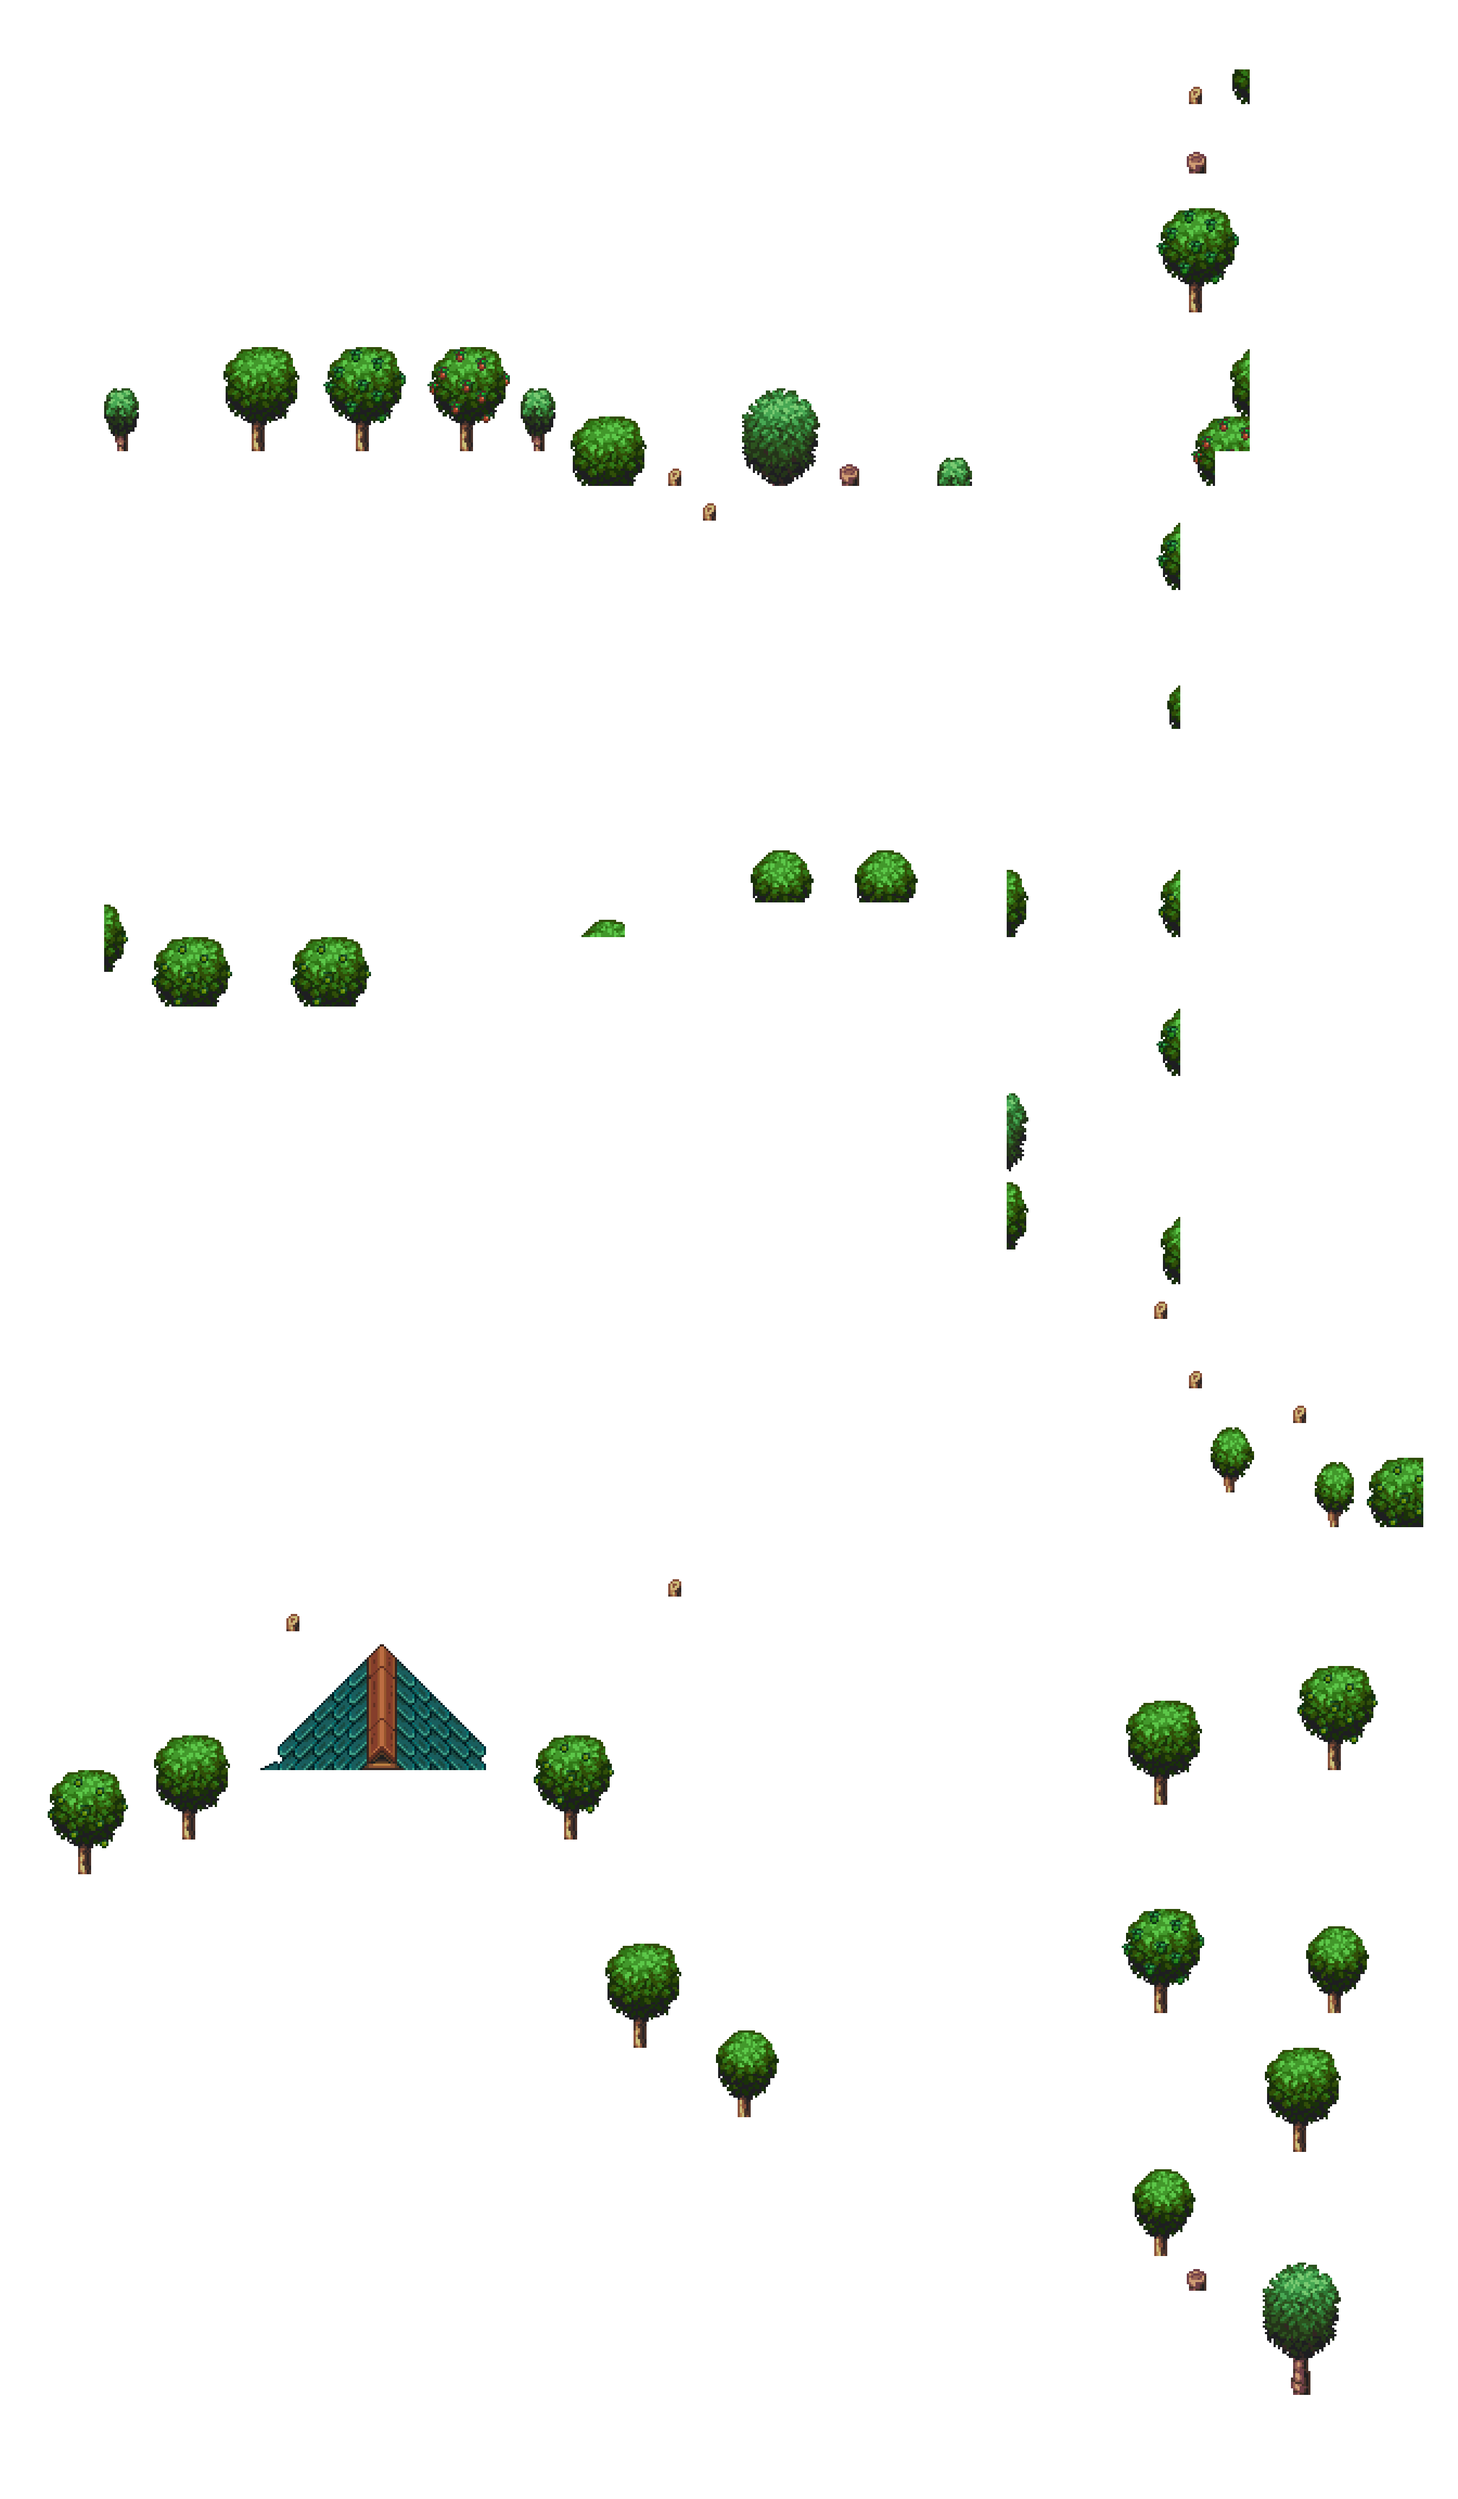
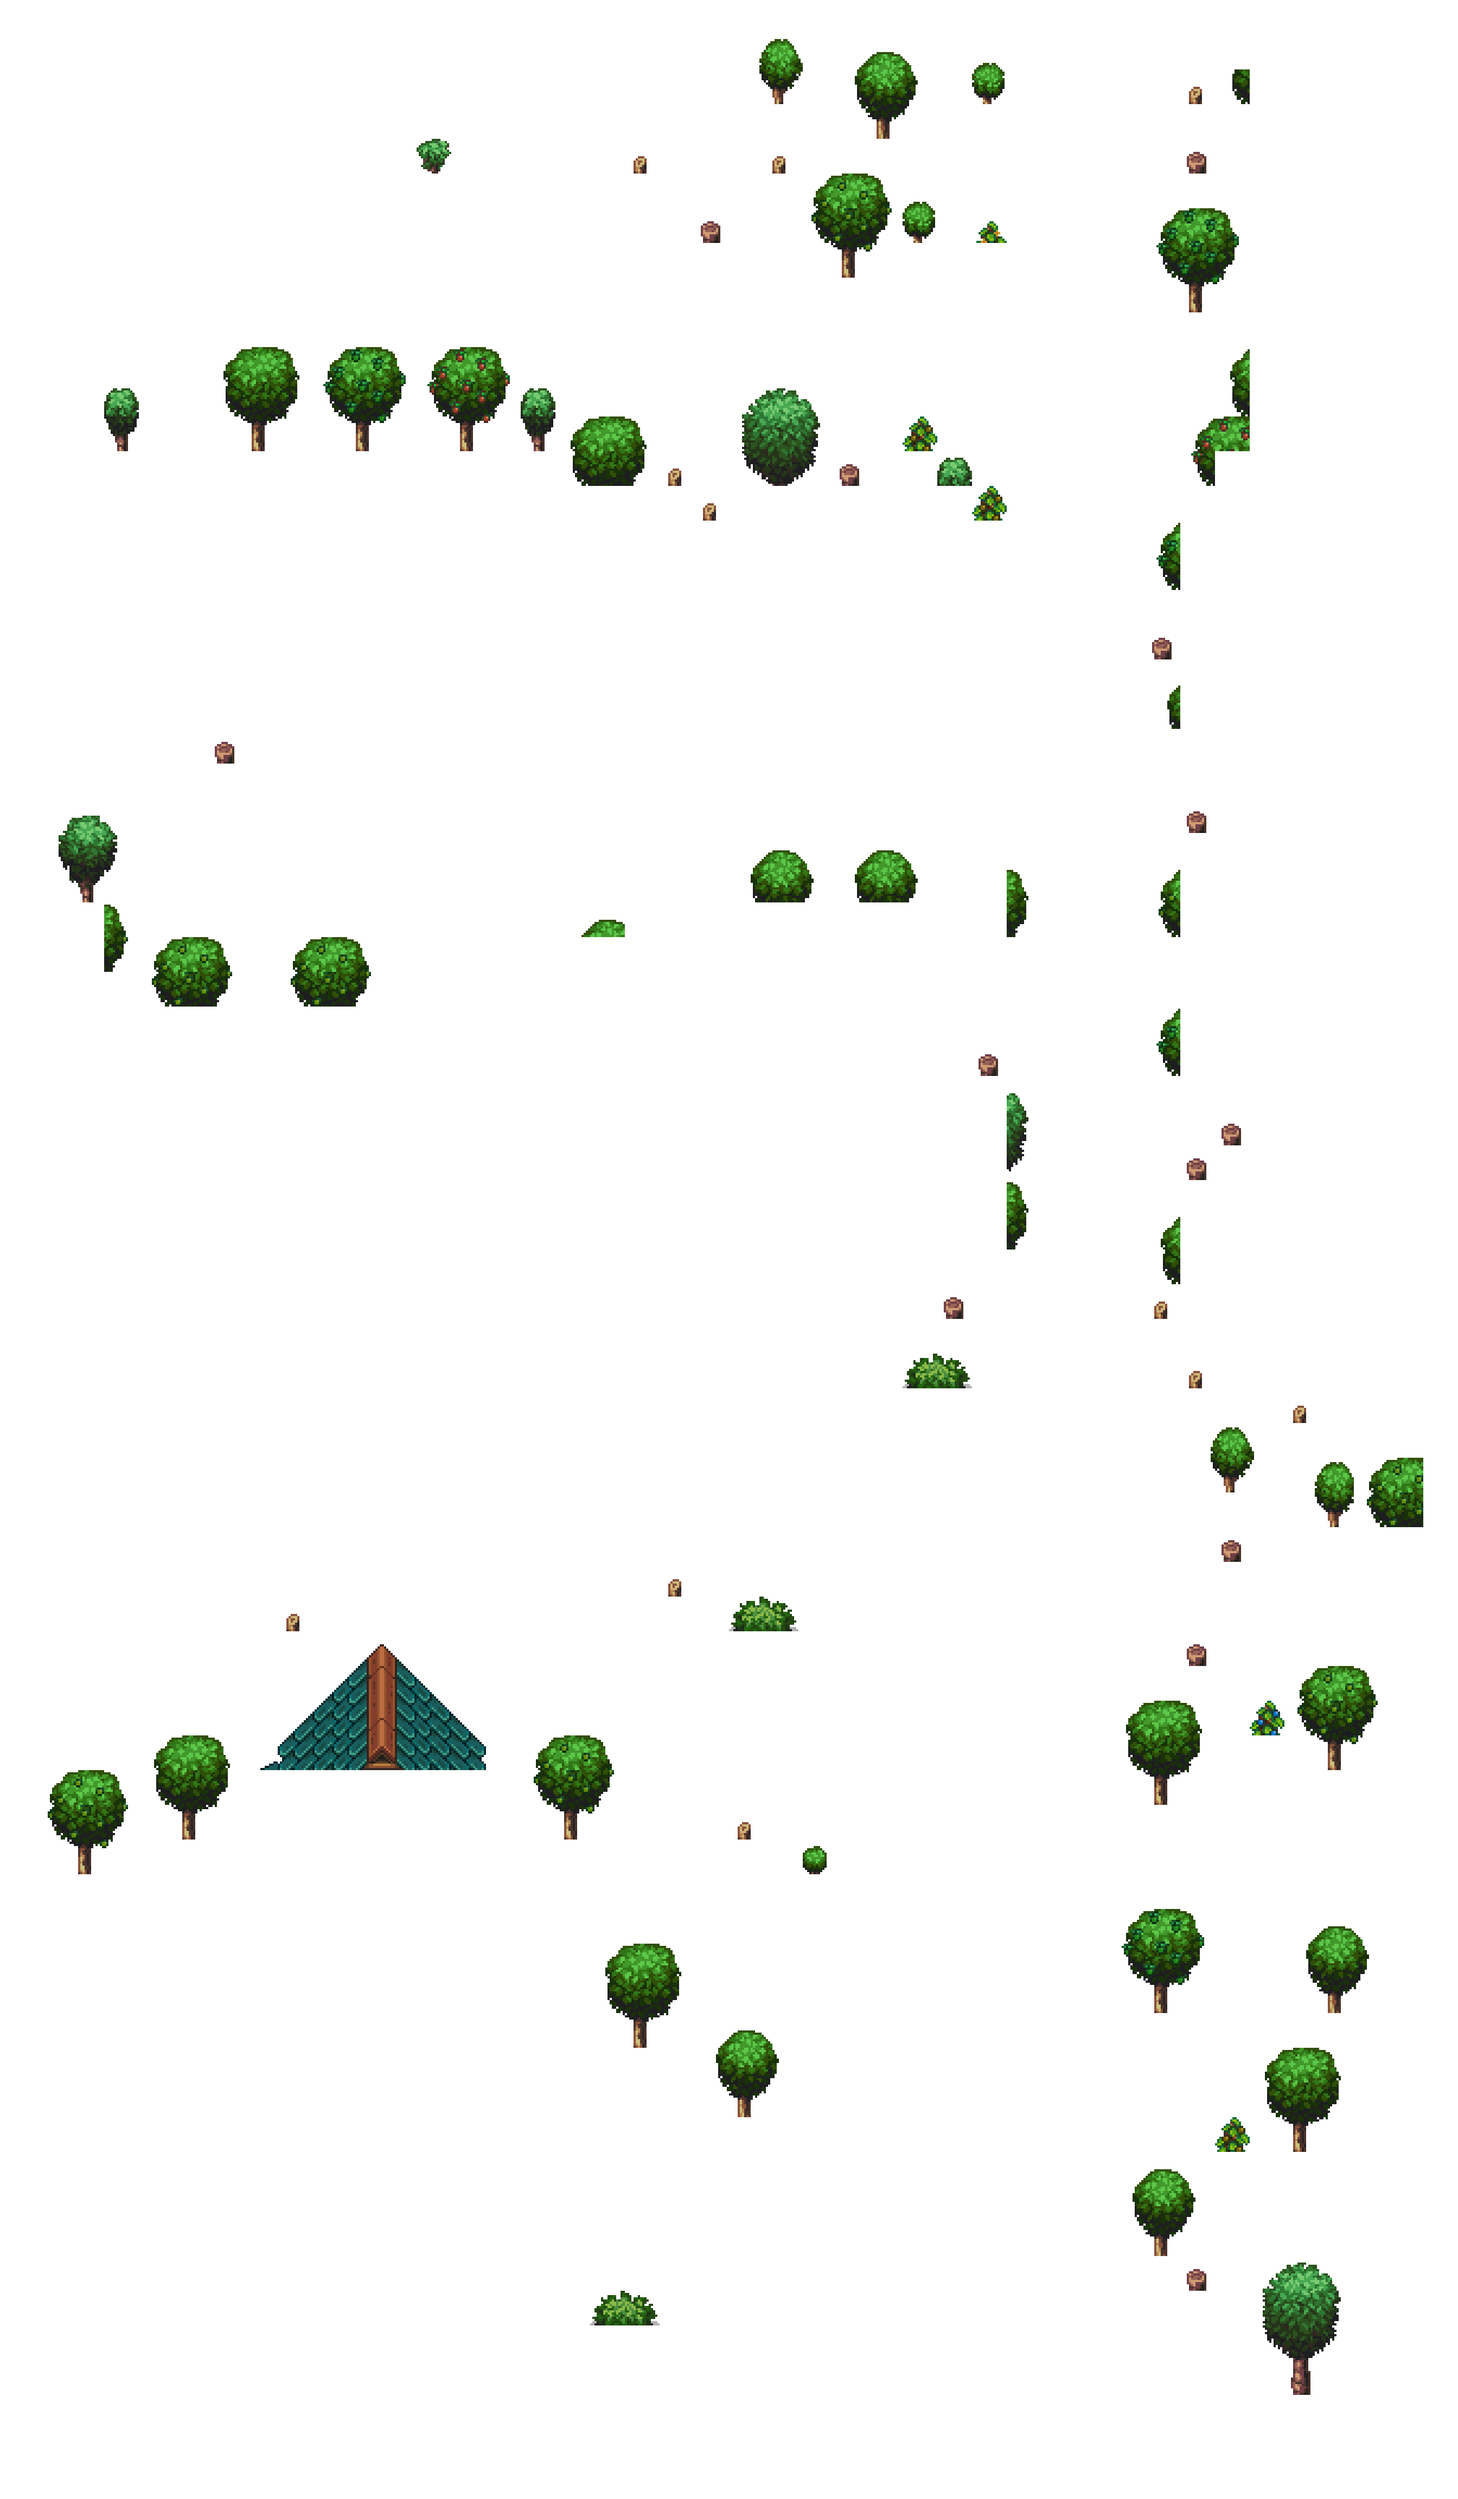
03/02

diff --git a/public/MAP/Decorative.tsx b/public/MAP/Decorative.tsx
@@ -1,4 +1,4 @@
 <?xml version="1.0" encoding="UTF-8"?>
 <tileset version="1.9" tiledversion="1.9.2" name="Decorative" tilewidth="32" tileheight="32" tilecount="390" columns="13">
- <image source="../../../../Sprits/RPGW_Caves_v2.1/decorative.png" width="416" height="960"/>
+ <image source="Sprits/decorative.png" width="416" height="960"/>
 </tileset>

diff --git a/public/MAP/Cave.tsx b/public/MAP/Cave.tsx
@@ -1,4 +1,4 @@
 <?xml version="1.0" encoding="UTF-8"?>
 <tileset version="1.9" tiledversion="1.9.2" name="Cave" tilewidth="32" tileheight="32" tilecount="2448" columns="51">
- <image source="../../../../Sprits/RPGW_Caves_v2.1/MainLev2.0.png" width="1632" height="1536"/>
+ <image source="Sprits/MainLev2.0.png" width="1632" height="1536"/>
 </tileset>

diff --git a/public/MAP/Icons.tsx b/public/MAP/Icons.tsx
@@ -1,0 +1,4 @@
+<?xml version="1.0" encoding="UTF-8"?>
+<tileset version="1.9" tiledversion="1.9.2" name="Icons" tilewidth="32" tileheight="32" tilecount="432" columns="16">
+ <image source="Sprits/#1 - Transparent Icons.png" width="512" height="867"/>
+</tileset>

diff --git a/public/MAP/Props.tsx b/public/MAP/Props.tsx
@@ -1,0 +1,4 @@
+<?xml version="1.0" encoding="UTF-8"?>
+<tileset version="1.9" tiledversion="1.9.2" name="Props" tilewidth="32" tileheight="32" tilecount="256" columns="16">
+ <image source="Sprits/TX Props.png" width="512" height="512"/>
+</tileset>
